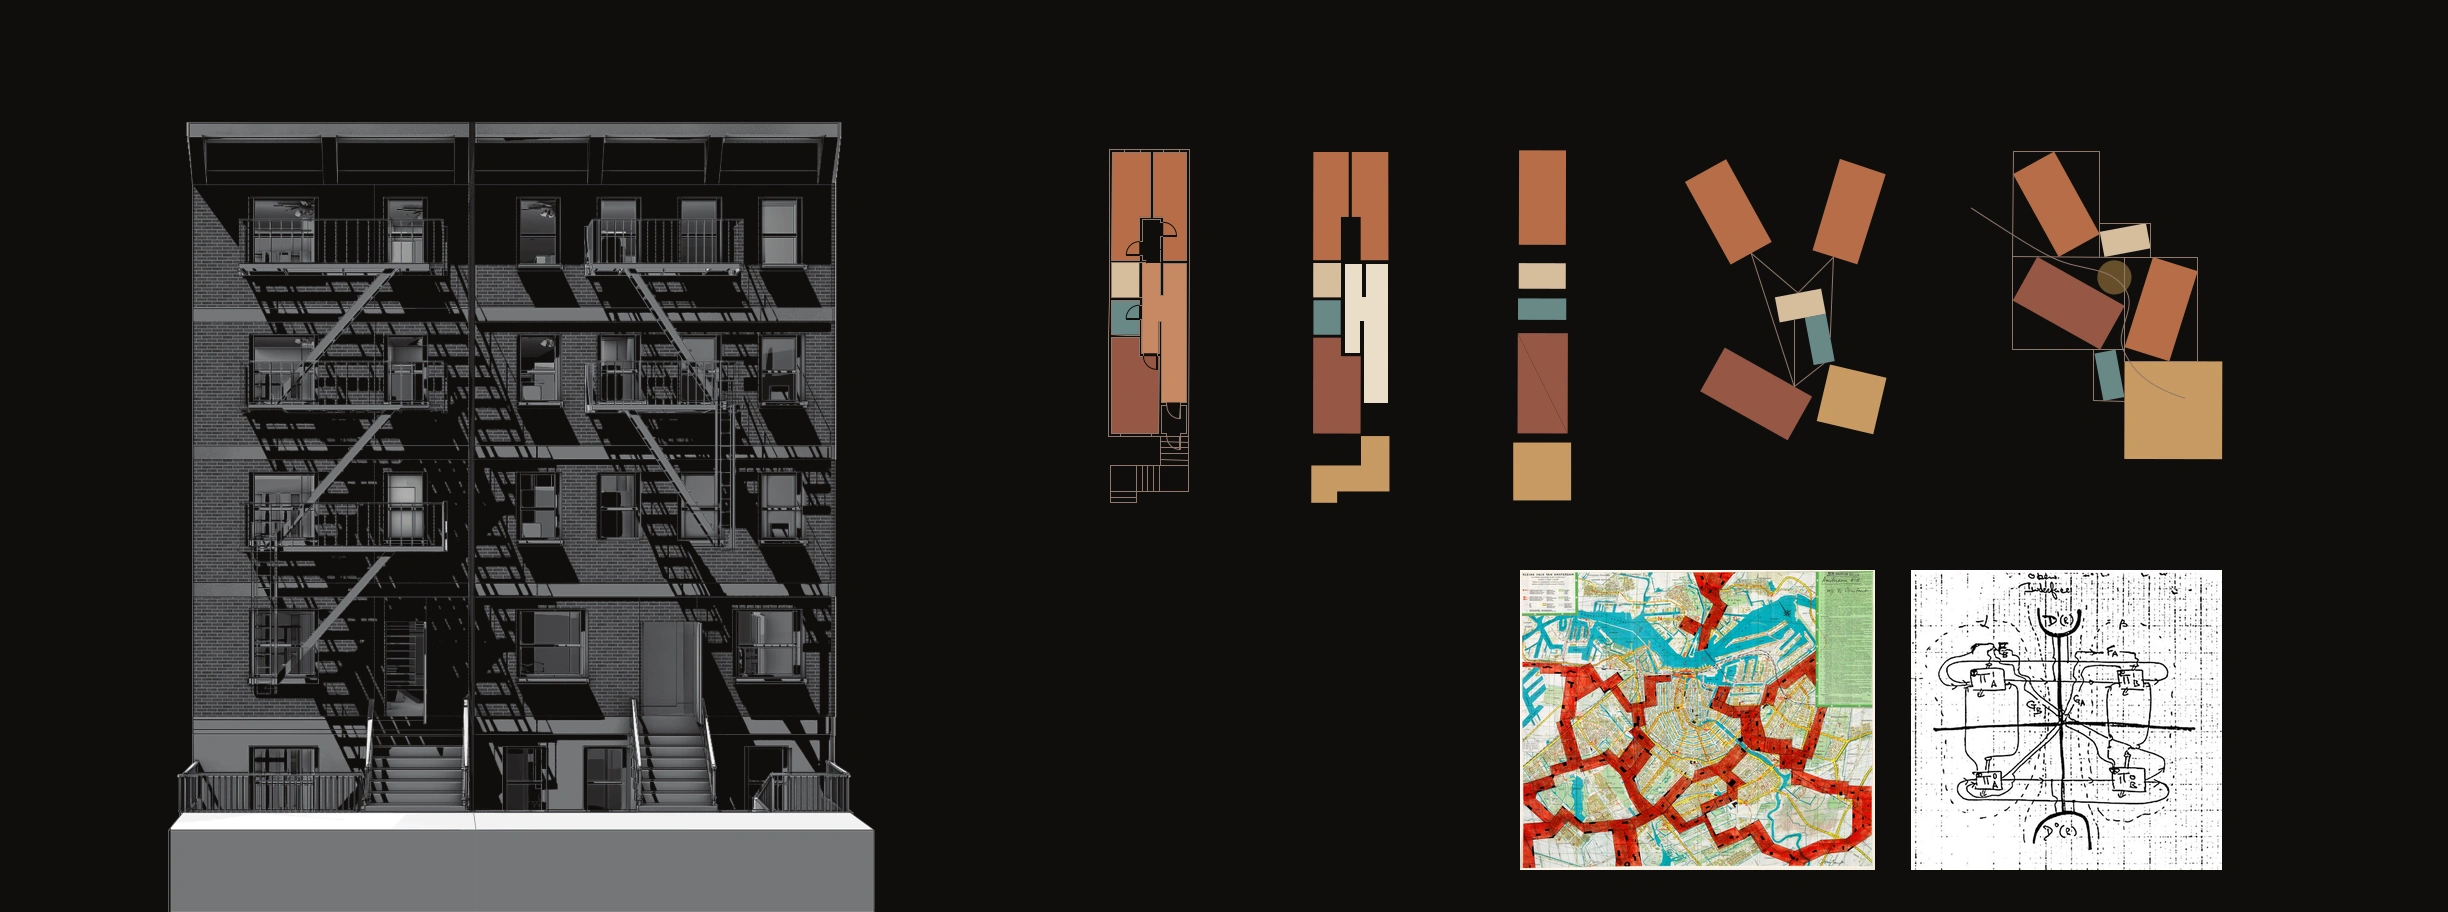
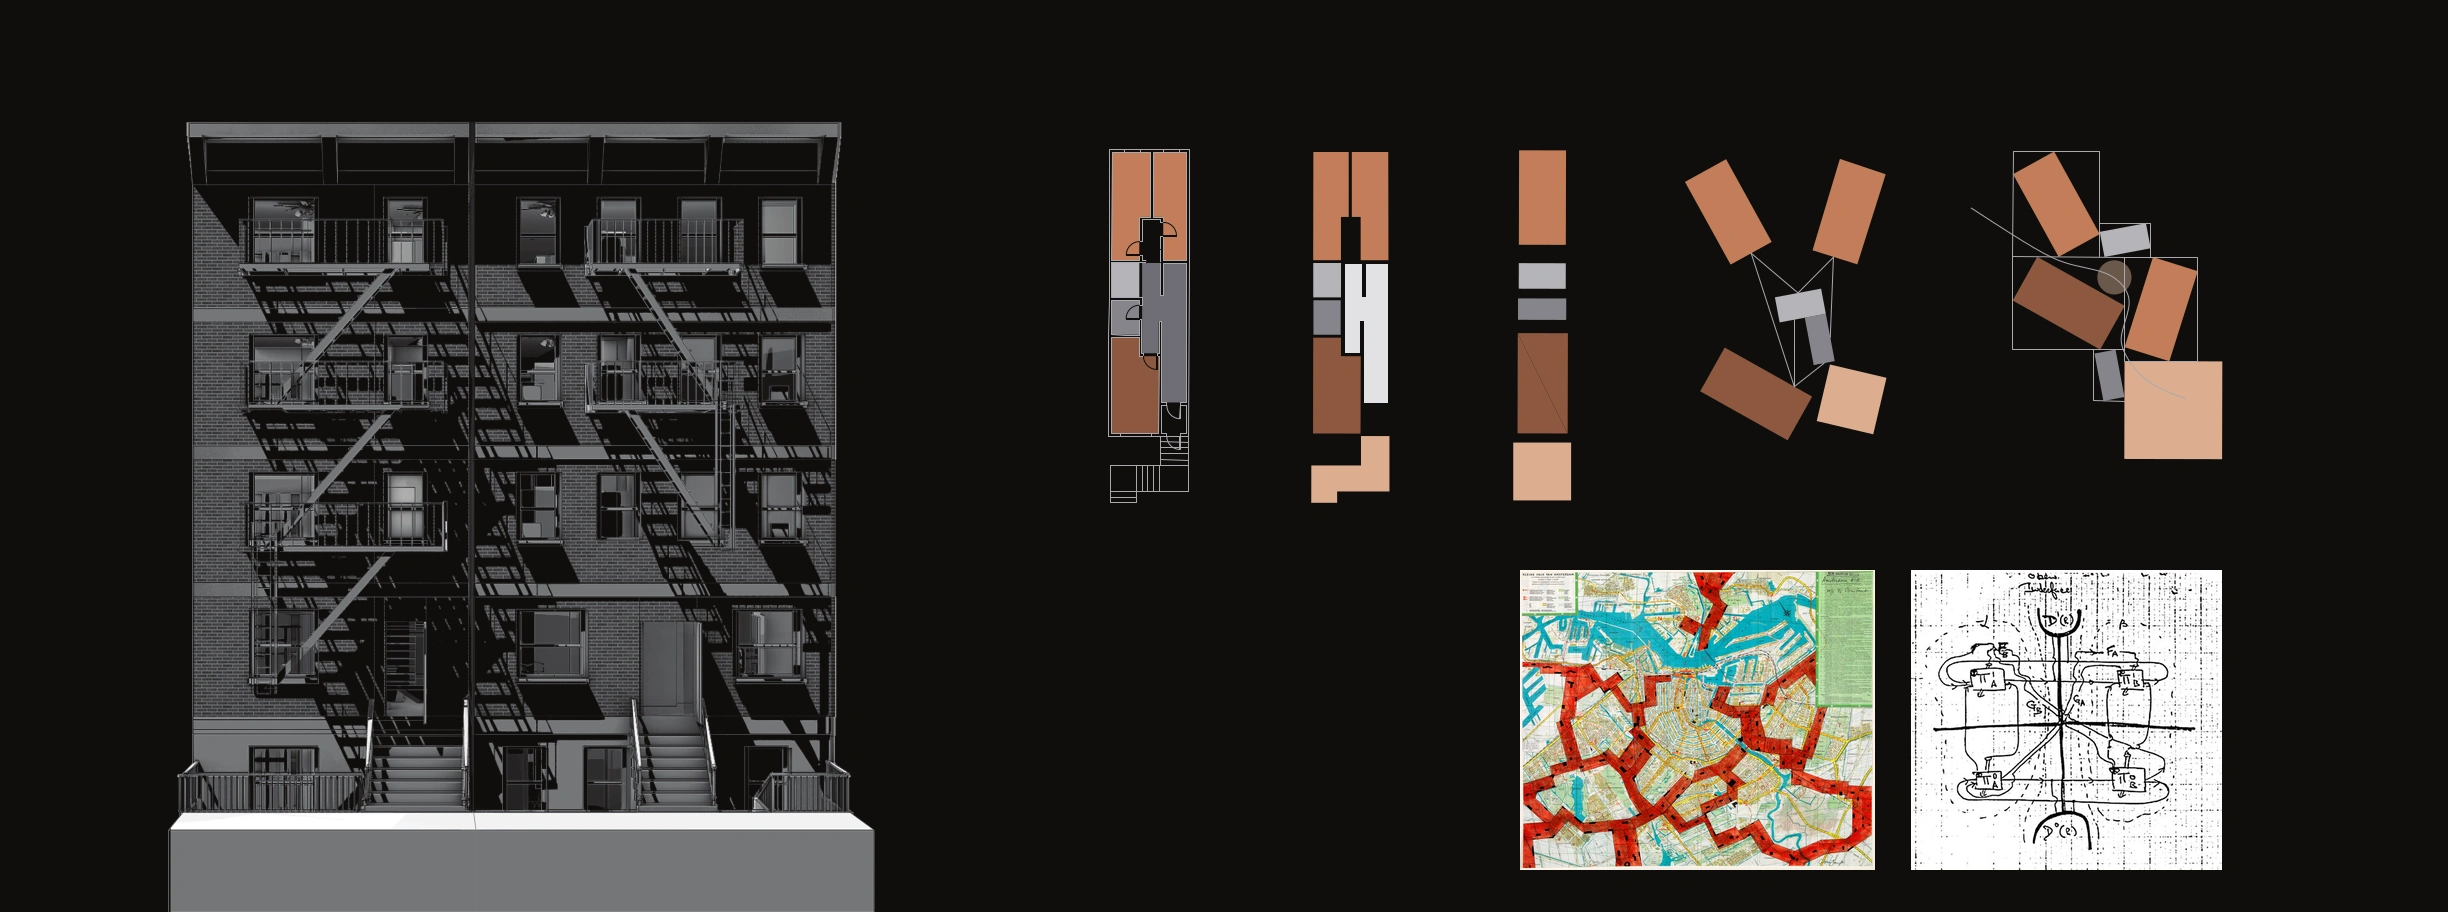
East 5th diagram: colours of Joint's hero (copper tints and cool glass greys)
Claude-Session: https://claude.ai/code/session_012xVSFeyKoQyZUFPAaCyKB9

diff --git a/public/projects.js b/public/projects.js
@@ -104,9 +104,9 @@ window.PROJECTS = {
       {src: "img/social-sanctuary/render-stairs.jpg", caption: "Stairs"},
         // his diagram1.pdf as it is (black ground, no crop; tenement-diagram.webp alone), with Constant's map and Pask's
         // diagram under the diagram, inside the black box (option A, his pick, 2026-11-06; no separate slide);
-        // no effects; the diagram recoloured in his PDF to the project's palette (his call, 2026-11-06: "copper, etc."):
-        // copper rooms, brick living, pale concrete kitchens, verdigris baths, ochre shared, brass meeting circle,
-        // warm grey lines. Note on the right (notes below)
+        // no effects; the diagram recoloured in his PDF to the colours of Joint's hero (his call, 2026-11-06): copper
+        // tints for rooms, living and shared, the hero's cool glass greys for kitchens, baths and the corridor, pale grey
+        // lines. Note on the right (notes below)
       {src: "img/social-sanctuary/tenement-diagram-references.webp", drawing: true, caption: "Co-op tenement, underspecificity diagram, Constant and Pask references"},
       {src: "img/social-sanctuary/plan-first-floor.png", drawing: true, caption: "First floor plan"},
       {src: "img/social-sanctuary/plan-fourth-floor.png", drawing: true, caption: "Fourth floor plan"},
